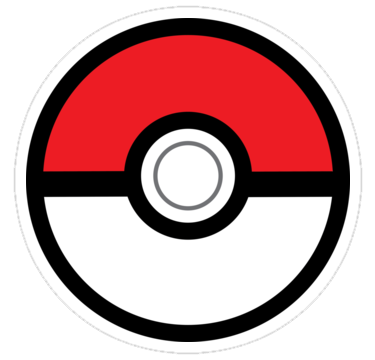
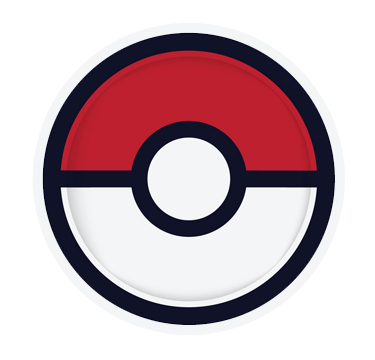
style updates header, pokeball

diff --git a/clicky/src/components/Header/Header.js b/clicky/src/components/Header/Header.js
@@ -9,7 +9,7 @@ const Header = props => (
         <header className="header-header">
             {/* <img src={logo} className="header-logo" alt="logo" /> */}
             <img src={logo} className="header-logo" alt="logo" />
-            <h1 className="header-title">Pokemon Click Game React</h1>
+            <h1 className="header-title">PoKéMoN Clicky Game</h1>
         </header>
         
         <br></br>

diff --git a/clicky/src/components/Instructions/Instructions.js b/clicky/src/components/Instructions/Instructions.js
@@ -6,7 +6,7 @@ import "./Instructions.css";
 const Instructions = props => (
     <div className="instructionsbox">
         {/* <h1>Pokemon Memory game!</h1> */}
-        <p>Trainer!  Click on PoKeMoN, but not on the same one twice.</p>
+        <p>Trainer!  Click on PoKéMoN, but not on the same one twice.</p>
     </div>
 );
 

diff --git a/clicky/src/components/Instructions/Instructions.css b/clicky/src/components/Instructions/Instructions.css
@@ -3,8 +3,8 @@
     text-align: center;
     vertical-align: center;
     font-family: 'McLaren', cursive;
-    color: #fff;
-    text-shadow: 0 0 5px #000;
+    color: #555555;
+    text-shadow: 0 0 5px #ffffff;
     margin-top: 20px;
     margin-bottom: 20px;
 }
